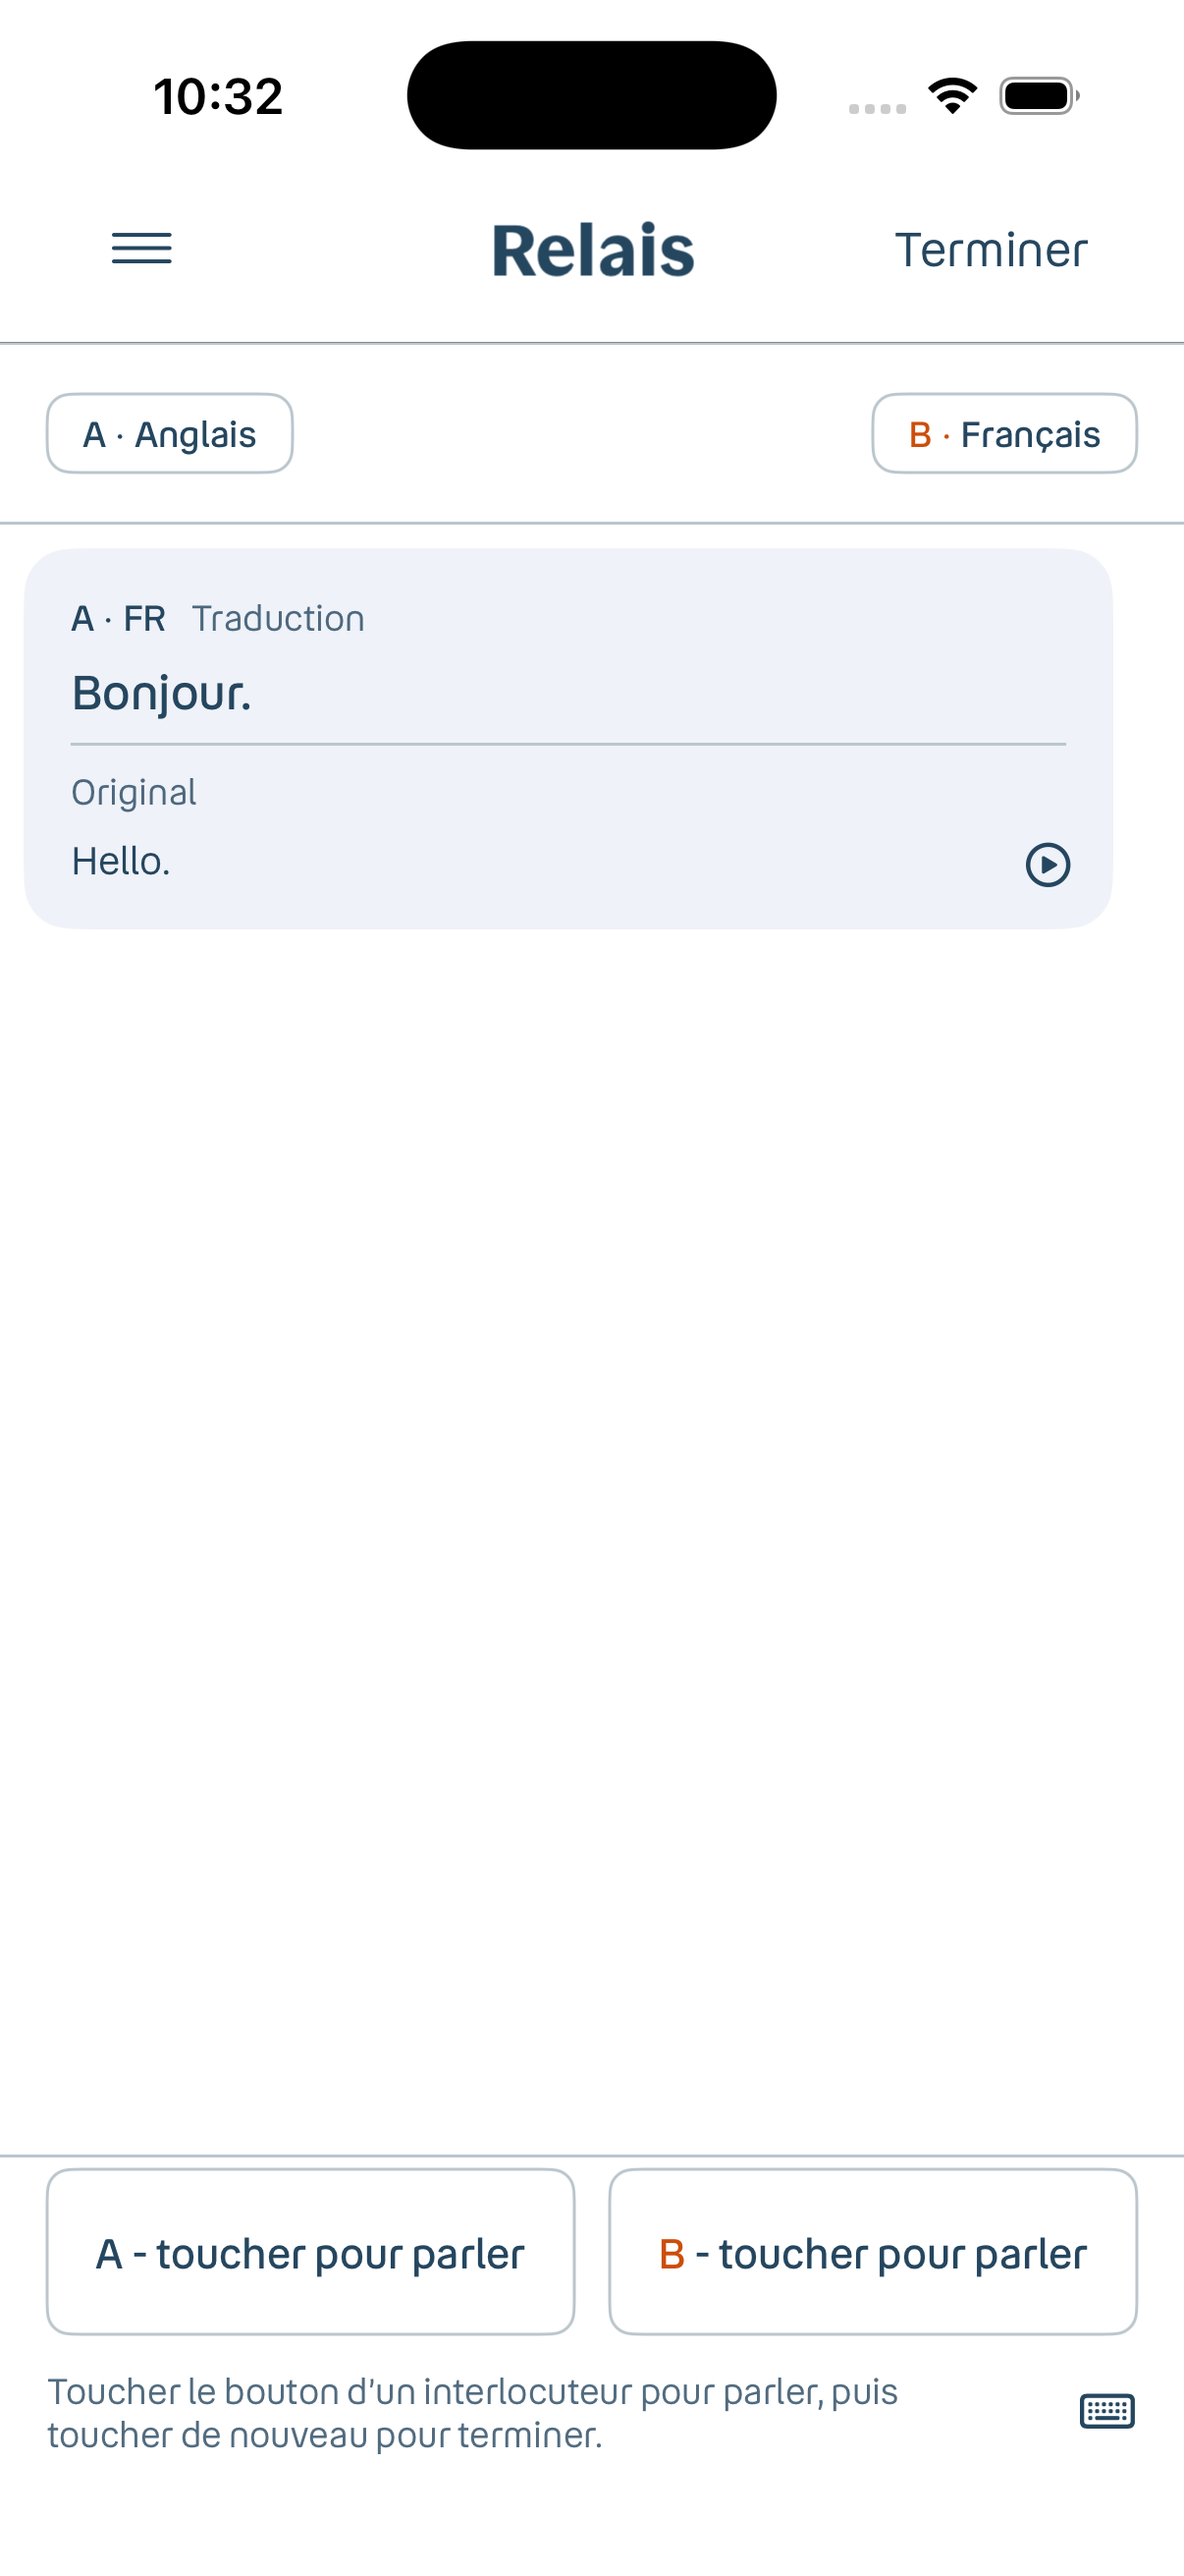
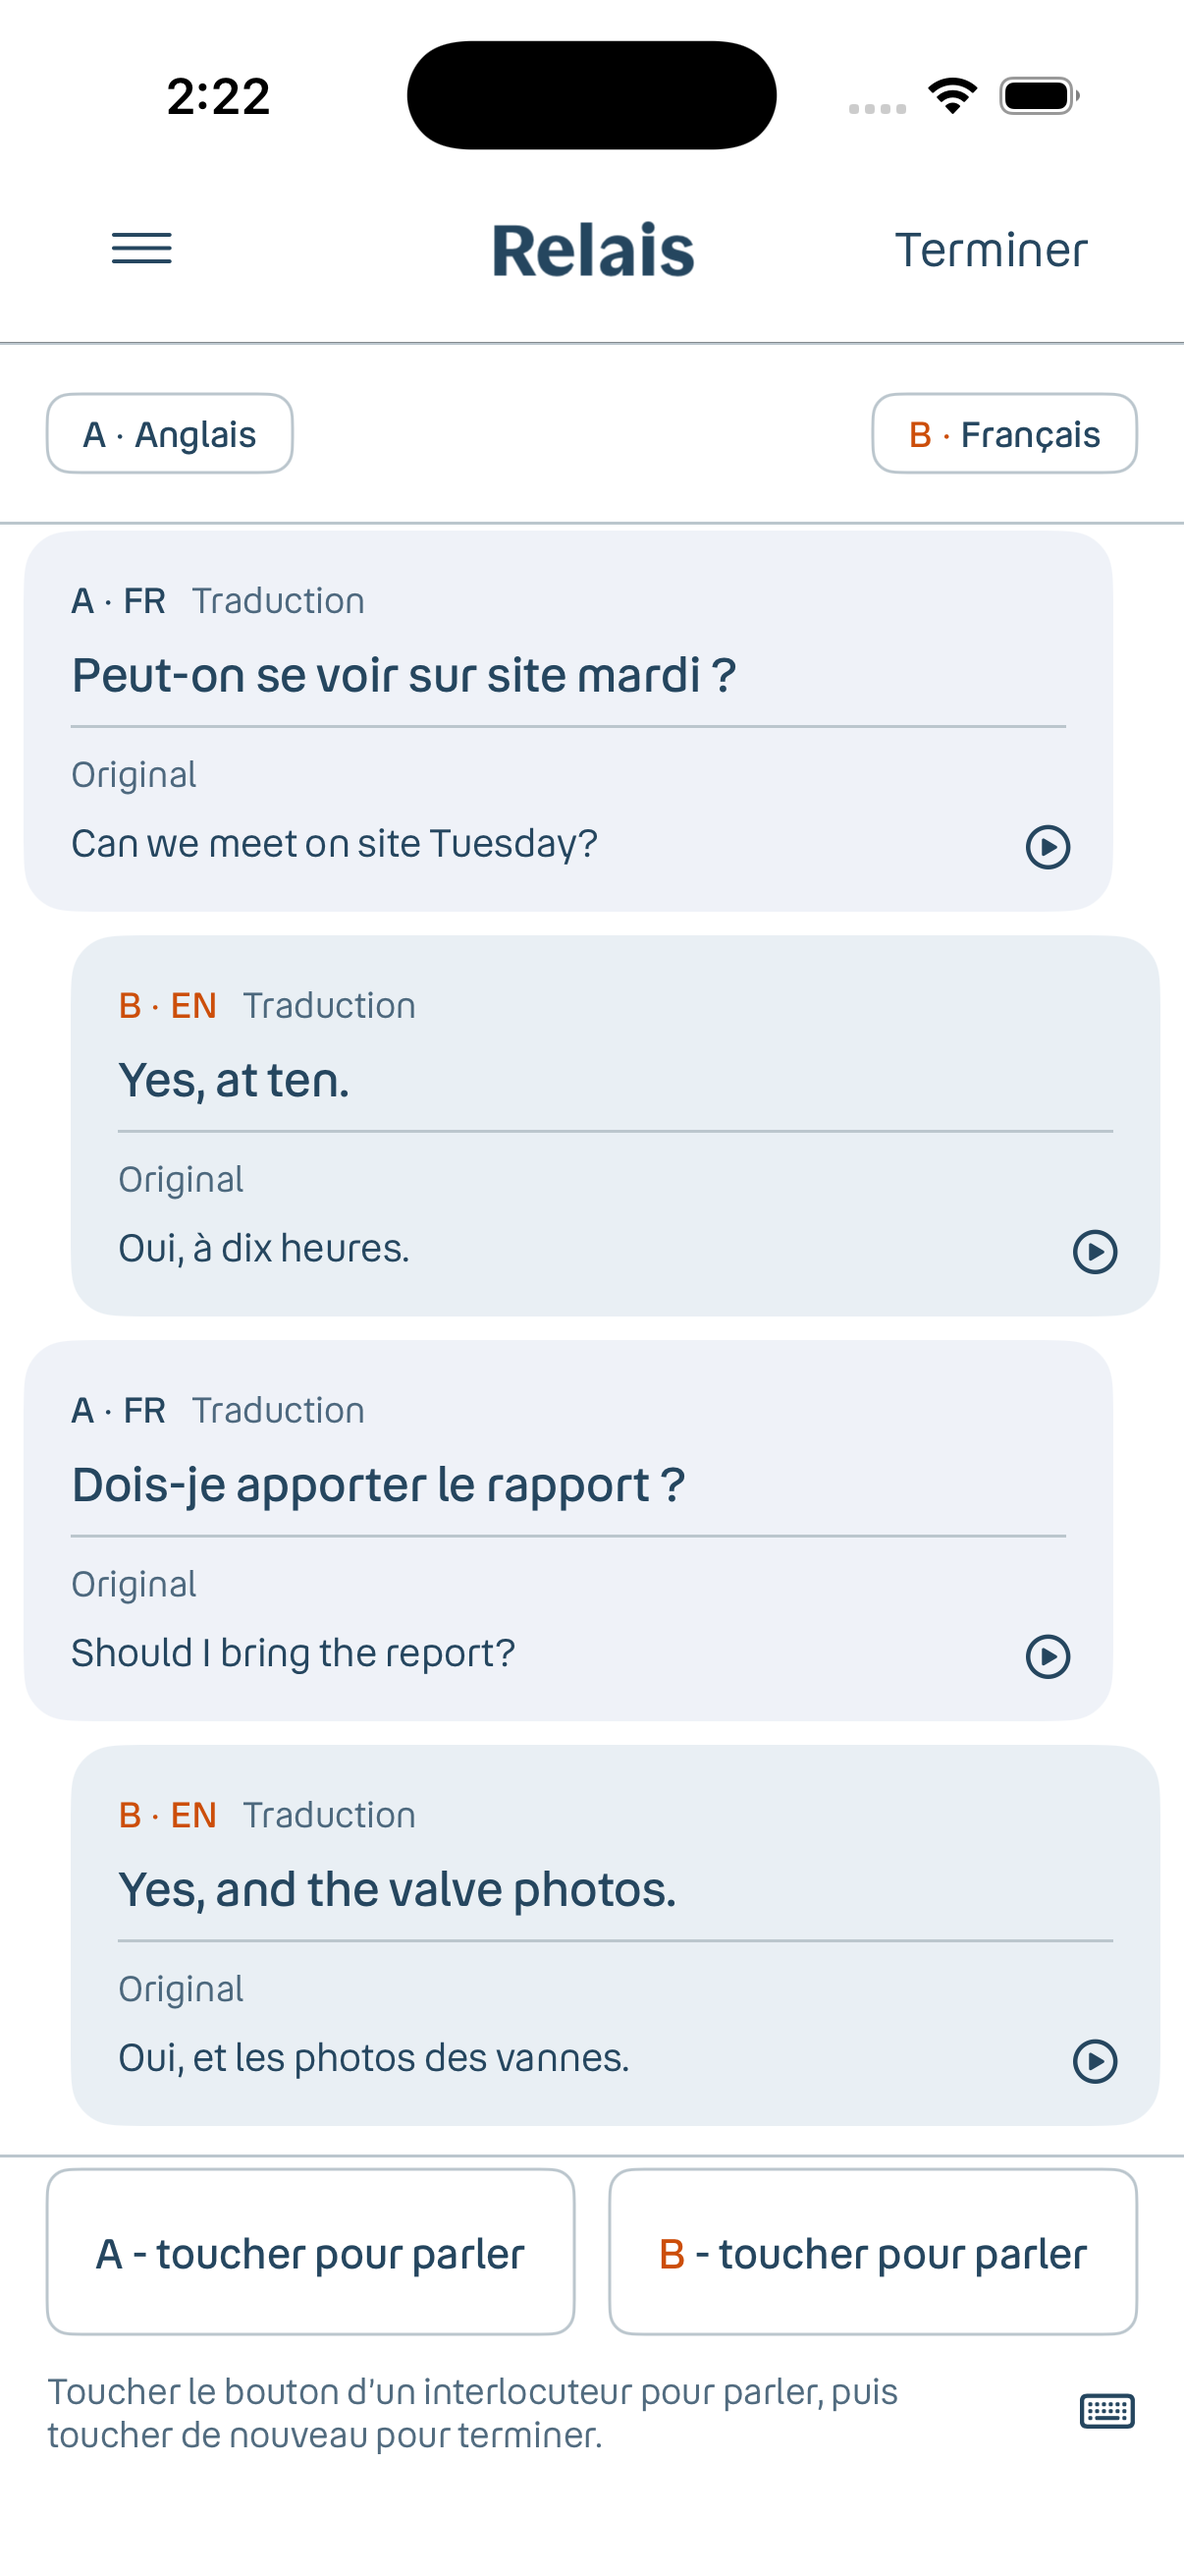
docs: show two complete exchanges in Relais design captures

diff --git a/ios/Sources/RealtimeTranslateViewModel.swift b/ios/Sources/RealtimeTranslateViewModel.swift
@@ -142,6 +142,12 @@ final class RealtimeTranslateViewModel: ObservableObject {
   /// else a view model remembers nothing, so a test is never reading what the host app last wrote.
   static func fromLaunchArguments() -> RealtimeTranslateViewModel {
     let value = ProcessInfo.processInfo.arguments.drop { $0 != "-uiState" }.dropFirst().first
+    #if DEBUG
+    if value == "designConversation" {
+      return RealtimeTranslateViewModel(state: .ready, targetLanguageB: .hyMT2Candidates[2],
+                                       items: designPreviewItems)
+    }
+    #endif
     let store = UserDefaultsLanguagePreferences()
     switch value {
     case "readyWithTranscript":
@@ -831,6 +837,23 @@ final class RealtimeTranslateViewModel: ObservableObject {
       translation: "Bonjour.", state: .translated
     )
   ]
+  #if DEBUG
+  /// Two illustrative English/French exchanges for native design captures; no model is run.
+  private static let designPreviewItems: [ConversationItem] = [
+    ConversationItem(id: UUID(), speaker: .a,
+      transcript: "Can we meet on site Tuesday?", targetLanguage: .hyMT2Candidates[2],
+      translation: "Peut-on se voir sur site mardi ?", state: .translated),
+    ConversationItem(id: UUID(), speaker: .b,
+      transcript: "Oui, à dix heures.", targetLanguage: .hyMT2Candidates[1],
+      translation: "Yes, at ten.", state: .translated),
+    ConversationItem(id: UUID(), speaker: .a,
+      transcript: "Should I bring the report?", targetLanguage: .hyMT2Candidates[2],
+      translation: "Dois-je apporter le rapport ?", state: .translated),
+    ConversationItem(id: UUID(), speaker: .b,
+      transcript: "Oui, et les photos des vannes.", targetLanguage: .hyMT2Candidates[1],
+      translation: "Yes, and the valve photos.", state: .translated),
+  ]
+  #endif
   /// Twenty finished turns, alternating speakers, each one numbered so a test can name the newest
   /// without counting bubbles. Far more than fits on any phone at any text size.
   private static var longPreviewItems: [ConversationItem] {

diff --git a/docs/design-review.md b/docs/design-review.md
@@ -6,9 +6,11 @@ Stacked on PR #4 (`codex/relais-sessions`). This diff refines iOS and Android st
 | --- | --- |
 | ![Before](design/conversation-before.png) | ![After](design/conversation-after.png) |
 
-Both captures use the same illustrative Hello / Bonjour fixture. The previous capture has English UI text; the new capture uses French. Neither exercises model inference.
+The previous capture is the minimal Hello / Bonjour fixture with English UI text. Updated French captures show two complete English/French exchanges (four alternating A/B turns) about a site visit and preparing a report and valve photos. All dialogue is illustrative fixture text; no model inference is exercised.
 
-![Saved session with navy selected segment and primary action](design/session-after.png)
+![Saved session with four turns and navy selected segment](design/session-after.png)
+
+![All four saved transcript turns](design/transcript-after.png)
 
 ## Native adaptation
 
@@ -26,3 +28,9 @@ Both captures use the same illustrative Hello / Bonjour fixture. The previous ca
 - `git diff --check` passed.
 
 Actual summary output quality, peak memory, offline acceptance and physical-device inference remain unverified. The summary preview is only an interface state, not model validation. The existing internal iOS SDK deployment-target linker warning remains.
+
+## Reproduce the representative captures
+
+In a Debug simulator build, launch with `-uiState designConversation -firstRun returning -AppleLanguages '(fr)' -AppleLocale fr_FR`. This seeds four turns and consistent English/French language controls using ephemeral preferences. The new preview state and dialogue are excluded from Release. End → Save produces the matching four-turn saved session; no summary model is run. The existing single-turn UI test fixture stays unchanged.
+
+The four-turn Debug build passed and all four translated/original turns were visually checked in the conversation and saved transcript. The main conversation and saved-session/transcript screenshots were replaced together.

diff --git a/ios/README.md b/ios/README.md
@@ -16,3 +16,5 @@ If only command-line tools are selected globally, set `DEVELOPER_DIR=/Applicatio
 `RealtimeTranslateViewModel` owns speech/translation and checkpoints finalized turns. `SessionHistory.swift` provides atomic protected files, recovery, structured summary validation and runtime handoff; `SessionHistoryView.swift` provides the history/detail screens. `MelangeTranslationRuntime` supports the existing translation model and the separate instruction model without sending transcripts to a remote generation API. `Localizable.xcstrings` supplies English, French and Spanish UI text.
 
 The UI test launch states are fixtures, not microphone/model inference. See [Relais design and session contract](../docs/relais.md) for storage, summary behavior and physical-device validation requirements. The app's bundle ID and signing team remain unchanged.
+
+For representative design captures, use a Debug build with `-uiState designConversation -firstRun returning -AppleLanguages '(fr)' -AppleLocale fr_FR`. It shows two illustrative English/French exchanges (four turns), without microphone or model inference. This preview state is excluded from Release. See [the design capture notes](../docs/design-review.md).
